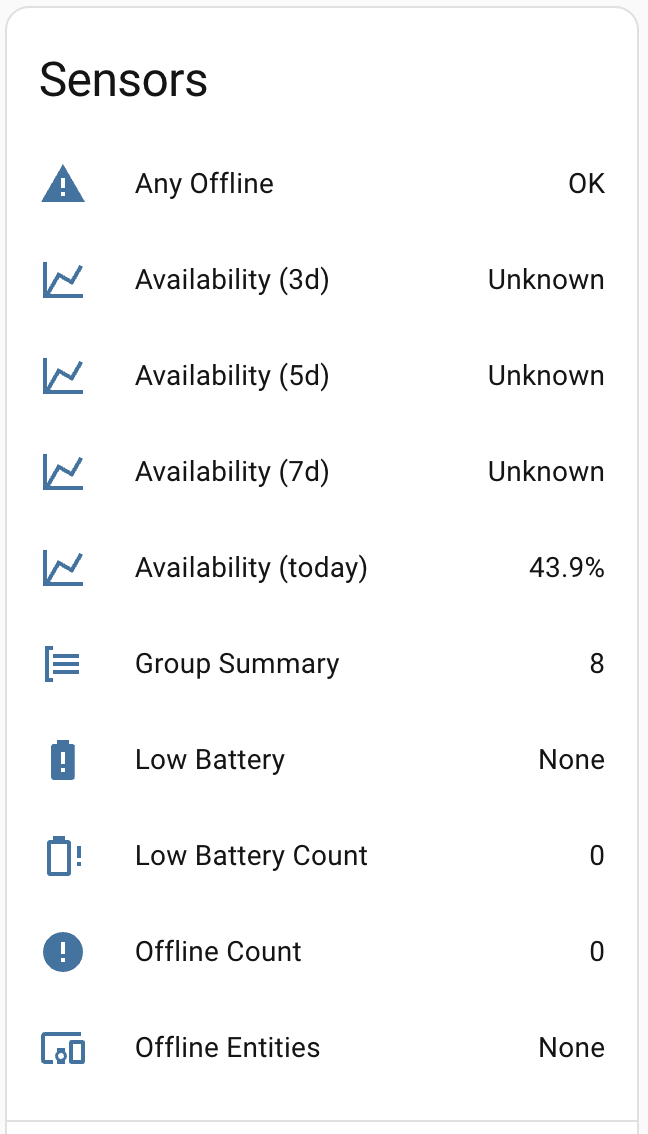
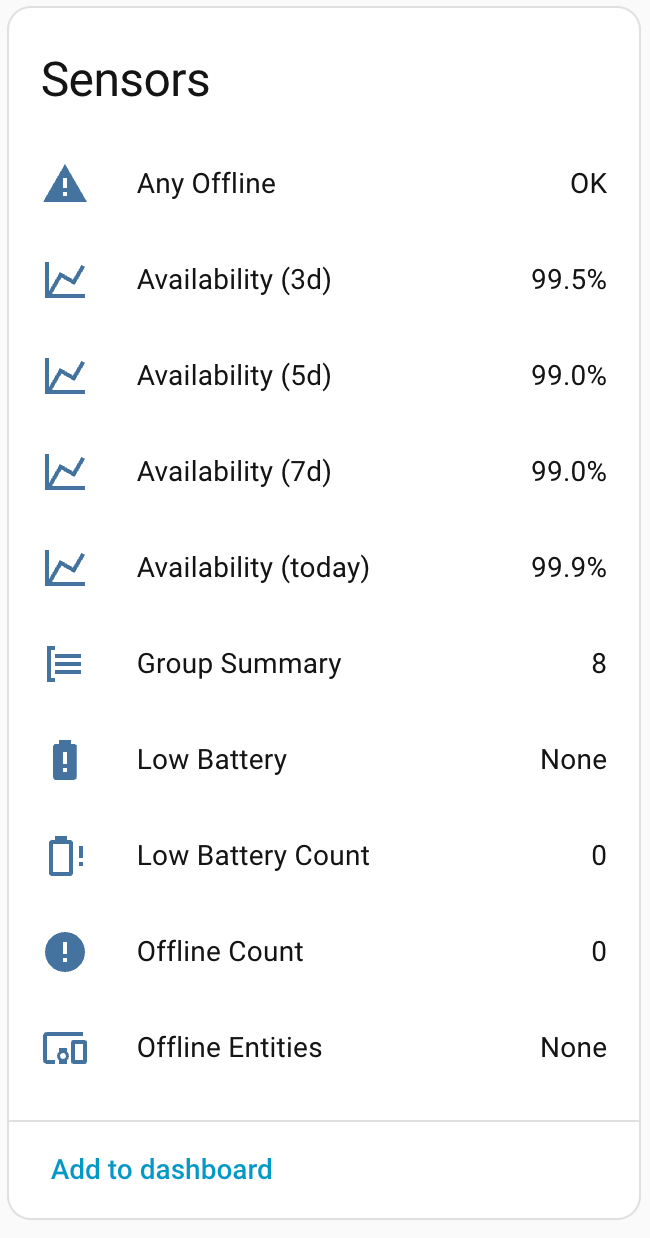
docs: update README, CHANGELOG, screenshots and card for combined groups
- README restructured: Step 1 = entry type selector, combined group setup
  path documented, screenshot placeholders added
- CHANGELOG: added card combined group support entries and service unload fix
- Screenshots: updated 03_advanced_settings, 05_sensors; added 00_create_entity
- Card JS: latest frontend build
- info.md: updated

diff --git a/custom_components/entity_availability/frontend/entity-availability-card.js b/custom_components/entity_availability/frontend/entity-availability-card.js
@@ -1280,17 +1280,18 @@ class EntityAvailabilityCardEditor extends LitElement {
             placeholder="Custom card title"
           />
         </div>
+        ${!this._isSelectedGroupCombined() ? html`
         <div class="editor-row checkbox">
           <label>
             <input
               type="checkbox"
               .checked=${this._config.show_availability !== false}
               @change=${(e) => this._updateConfig("show_availability", e.target.checked)}
-              ?disabled=${this._isSelectedGroupCombined()}
             />
-            Show Availability Bars${this._isSelectedGroupCombined() ? " (not available for combined groups)" : ""}
+            Show Availability Bars
           </label>
         </div>
+        ` : nothing}
         <div class="editor-row checkbox">
           <label>
             <input
@@ -1301,6 +1302,7 @@ class EntityAvailabilityCardEditor extends LitElement {
             Show Entity List
           </label>
         </div>
+        ${!this._isSelectedGroupCombined() ? html`
         <div class="editor-row">
           <label>Filter Entities (requires Show Entity List)</label>
           <select
@@ -1313,6 +1315,7 @@ class EntityAvailabilityCardEditor extends LitElement {
             <option value="online">Healthy only (online)</option>
           </select>
         </div>
+        ` : nothing}
         <div class="editor-row checkbox">
           <label>
             <input
@@ -1323,6 +1326,7 @@ class EntityAvailabilityCardEditor extends LitElement {
             Entity List Expanded by Default
           </label>
         </div>
+        ${!this._isSelectedGroupCombined() ? html`
         <div class="editor-row checkbox">
           <label>
             <input
@@ -1333,6 +1337,7 @@ class EntityAvailabilityCardEditor extends LitElement {
             Show Suppress/Unsuppress Buttons
           </label>
         </div>
+        ` : nothing}
         <div class="editor-row checkbox">
           <label>
             <input
@@ -1343,6 +1348,7 @@ class EntityAvailabilityCardEditor extends LitElement {
             Compact Mode
           </label>
         </div>
+        ${!this._isSelectedGroupCombined() ? html`
         <div class="editor-row">
           <label>Entity Detail</label>
           <select
@@ -1367,6 +1373,8 @@ class EntityAvailabilityCardEditor extends LitElement {
             <option value="battery_desc">Battery ↓ (strongest first)</option>
           </select>
         </div>
+        ` : nothing}
+        ${!this._isSelectedGroupCombined() ? html`
         <div class="threshold-section">
           <label>Availability Bar Colors & Thresholds</label>
           <div class="color-row">
@@ -1408,6 +1416,7 @@ class EntityAvailabilityCardEditor extends LitElement {
             />
           </div>
         </div>
+        ` : nothing}
       </div>
     `;
   }

diff --git a/README.md b/README.md
@@ -48,16 +48,27 @@ Monitor entity availability in Home Assistant. Track offline entities, availabil
 
 This integration uses a config flow accessible from **Settings > Devices & Services > Add Integration > Entity Availability**.
 
-### Step 1: Create Entity Group
+### Step 1: Choose Entry Type
+
+Choose whether to monitor a group of entities or combine existing groups.
+
+| Option | Description |
+|--------|-------------|
+| Monitor entities | Create a new group of entities to monitor |
+| Combine groups | Aggregate two or more existing groups into one (requires at least 2 groups already created) |
+
+![Step 1: Choose Entry Type](custom_components/entity_availability/docs/00_create_entity.png)
+
+### Step 2a: Create Entity Group (Monitor entities path)
 
 | Field | Description |
 |-------|-------------|
 | Group Name | A descriptive name for this group (e.g., "Security Cameras") |
 | Entities to Monitor | Select the entities you want to track |
 
-![Step 1: Create Entity Group](custom_components/entity_availability/docs/01_create_entity_group.png)
+![Step 2a: Create Entity Group](custom_components/entity_availability/docs/01_create_entity_group.png)
 
-### Step 2: Monitoring Settings
+### Step 3: Monitoring Settings
 
 | Field | Default | Description |
 |-------|---------|-------------|
@@ -65,18 +76,18 @@ This integration uses a config flow accessible from **Settings > Devices & Servi
 | Cooldown (seconds) | `60` | Time to wait before confirming an entity is offline |
 | Staleness threshold (minutes) | `0` (disabled) | Mark entity degraded if no state change in this time |
 
-![Step 2: Monitoring Settings](custom_components/entity_availability/docs/02_monitoring_settings.png)
+![Step 3: Monitoring Settings](custom_components/entity_availability/docs/02_monitoring_settings.png)
 
-### Step 3: Advanced Settings
+### Step 4: Advanced Settings
 
 | Field | Default | Description |
 |-------|---------|-------------|
 | Low battery threshold (%) | `20` | Battery level below which an entity is considered degraded (0 = disabled) |
 | Availability tracking windows | `today`, `7d` | Which time windows to create availability sensors for |
 
-![Step 3: Advanced Settings](custom_components/entity_availability/docs/03_advanced_settings.png)
+![Step 4: Advanced Settings](custom_components/entity_availability/docs/03_advanced_settings.png)
 
-### Step 4: Battery Entity Mapping (when battery threshold > 0)
+### Step 5: Battery Entity Mapping (when battery threshold > 0)
 
 If you enable battery monitoring, a confirmation step appears showing each monitored entity with its auto-detected battery sensor. You can:
 
@@ -88,7 +99,18 @@ Auto-detection checks battery sensors linked to the same device in Home Assistan
 
 Battery sensors that report `low` (text) are supported in addition to numeric percentages.
 
-![Step 4: Battery Entity Mapping](custom_components/entity_availability/docs/04_battery_entity_mapping.png)
+![Step 5: Battery Entity Mapping](custom_components/entity_availability/docs/04_battery_entity_mapping.png)
+
+### Step 2b: Create Combined Group (Combine groups path)
+
+| Field | Description |
+|-------|-------------|
+| Combined Group Name | A descriptive name (e.g., "All Devices") |
+| Groups to Include | Select two or more existing Entity Availability groups |
+
+No further steps — combined groups read live from their source groups and require no additional configuration.
+
+![Step 2b: Create Combined Group](custom_components/entity_availability/docs/01b_create_combined_group.png)
 
 ### Options Flow
 
@@ -155,20 +177,9 @@ When an entity comes back online, the `offline_count` sensor includes:
 
 ## Combined Groups
 
-A combined group aggregates two or more monitored groups into a single set of sensors. This is useful when you want cross-group automations -- for example, alerting when anything across your entire home is offline, or tracking a single "whole-home availability" figure, without duplicating entities across groups.
+A combined group aggregates two or more monitored groups into a single set of sensors. Useful for cross-group automations — alert when anything across your entire home is offline without duplicating entity logic.
 
-<!-- screenshot: config flow type selector step showing "Monitor entities" vs "Combine groups" options -->
-
-### Setting Up a Combined Group
-
-1. Go to **Settings > Devices & Services > Add Integration > Entity Availability**.
-2. On the type selector step, choose **Combine groups**.
-3. Enter a name for the combined group (e.g., "All Devices") and select two or more existing Entity Availability groups to include.
-4. Click **Submit**.
-
-<!-- screenshot: config flow combined group step showing the name field and group multi-select picker -->
-
-No additional configuration steps are required. The combined group reads live data from its source groups and updates whenever any of them change.
+See [Step 2b in the Configuration section](#step-2b-create-combined-group-combine-groups-path) for setup instructions.
 
 ### Sensors Created
 
@@ -186,7 +197,7 @@ For example, a combined group named "All Devices" produces the slug `all_devices
 
 Suppressed entities are excluded from all combined sensor states, consistent with per-group behaviour.
 
-<!-- screenshot: combined group device in HA device registry showing all sensors under one device -->
+![Combined Group Sensors](custom_components/entity_availability/docs/05b_combined_sensors.png)
 
 <!-- screenshot: combined sensors visible in Developer Tools → States -->
 
@@ -387,6 +398,8 @@ automation:
 
 The integration ships with a custom card for quick health visualization. It is automatically registered as a Lovelace resource when the integration loads.
 
+The card works with both regular groups and combined groups. It auto-detects the group type and adjusts its layout accordingly.
+
 ### Manual Installation (if auto-registration fails)
 
 1. Add the resource in **Settings > Dashboards > Resources**:
@@ -417,28 +430,39 @@ availability_colors:
 
 | Option | Default | Description |
 |--------|---------|-------------|
-| `group` | (required) | Group slug (e.g., `security_devices`) |
+| `group` | (required) | Group slug (e.g., `security_devices`) — works for both regular and combined groups |
 | `title` | (auto from group) | Custom card title |
-| `show_availability` | `true` | Show availability progress bars |
-| `show_entities` | `true` | Show expandable entity list |
-| `entities_expanded` | `false` | Start entity list expanded |
-| `show_actions` | `false` | Show Suppress/Unsuppress buttons |
-| `entity_detail` | `"off"` | `"off"` / `"tooltip"` (hover to see details) / `"inline"` (always show details). In compact mode with inline, shows state + last-changed time. Timestamp states are formatted as readable dates. |
-| `entity_filter` | `"all"` | Filter entity list: `"all"`, `"offline"` (problems only: offline/stale/low battery), `"online"` (healthy only). Section title and count update to reflect filter (e.g., "Offline Entities (2/6)") |
+| `show_availability` | `true` | Show availability progress bars (regular groups only) |
+| `show_entities` | `true` | Show expandable entity list (regular) or group breakdown table (combined) |
+| `entities_expanded` | `false` | Start entity list / group breakdown expanded |
+| `show_actions` | `false` | Show Suppress/Unsuppress buttons (regular groups only) |
+| `entity_detail` | `"off"` | `"off"` / `"tooltip"` (hover to see details) / `"inline"` (always show details). In compact mode with inline, shows state + last-changed time. Timestamp states are formatted as readable dates. (regular groups only) |
+| `entity_filter` | `"all"` | Filter entity list: `"all"`, `"offline"` (problems only: offline/stale/low battery), `"online"` (healthy only). Section title and count update to reflect filter (e.g., "Offline Entities (2/6)"). (regular groups only) |
 | `compact` | `false` | Reduced padding mode |
-| `sort_by` | `status` | Entity list sort order: `status`, `name_asc`, `name_desc`, `battery_asc`, `battery_desc` |
-| `availability_thresholds` | `{high: 99, mid: 95}` | % thresholds for bar colors |
-| `availability_colors` | `{high, mid, low}` | Custom hex colors for bars |
+| `sort_by` | `status` | Entity list sort order: `status`, `name_asc`, `name_desc`, `battery_asc`, `battery_desc` (regular groups only) |
+| `availability_thresholds` | `{high: 99, mid: 95}` | % thresholds for bar colors (regular groups only) |
+| `availability_colors` | `{high, mid, low}` | Custom hex colors for bars (regular groups only) |
 
 > **Migration:** `show_entity_tooltips: true` from previous versions is automatically treated as `entity_detail: "tooltip"` — no manual update needed.
 
-The `group` field should be the group slug (e.g., `security_devices`). The card uses the prefix `entity_availability_` + group slug to locate all related entities automatically.
+The `group` field accepts any group slug. The card uses the prefix `entity_availability_` + group slug to locate all related entities and detect the group type automatically.
 
-All options are configurable via the visual card editor UI.
+All options are configurable via the visual card editor UI. Options that do not apply to the selected group type are hidden automatically in the editor.
 
-![Card Configuration](custom_components/entity_availability/docs/07_ui_card_configuration_screen.png)
+![Card Configuration — Regular Group](custom_components/entity_availability/docs/07_ui_card_configuration_screen.png)
 
-### Card Preview
+![Card Configuration — Combined Group](custom_components/entity_availability/docs/07b_ui_card_configuration_combined.png)
+
+### Visual Editor
+
+The card editor includes a **Group Slug** dropdown populated from all discovered groups, split into two sections:
+
+- **Groups** — regular monitored groups
+- **Combined Groups** — aggregated combined groups
+
+Selecting a combined group hides editor controls that don't apply (availability bars, entity filter, entity detail, sort order, suppress buttons, color thresholds), leaving only the options relevant to combined group display.
+
+### Card Preview — Regular Group
 
 ```
 ┌───────────────────────────────────────────────┐
@@ -462,6 +486,25 @@ All options are configurable via the visual card editor UI.
 │       [Suppress All]   [Unsuppress All]       │
 └───────────────────────────────────────────────┘
 ```
+
+### Card Preview — Combined Group
+
+```
+┌───────────────────────────────────────────────┐
+│ ✖ All Devices                      2 Offline  │
+├───────────────────────────────────────────────┤
+│   Online: 11  Offline: 2   Low Battery: 1     │
+├───────────────────────────────────────────────┤
+│  ▾ Groups (3)                                 │
+│    Group              Online  Offline  Bat.   │
+│    ─────────────────────────────────────────  │
+│    Security Devices       4        1     1    │
+│    Climate Devices        5        1     0    │
+│    Media Devices          2        0     0    │
+└───────────────────────────────────────────────┘
+```
+
+![Card — Combined Group](custom_components/entity_availability/docs/11_card_combined_group.png)
 
 ---
 

diff --git a/info.md b/info.md
@@ -5,6 +5,7 @@ Monitor entity availability across your Home Assistant setup. Track offline enti
 ## Features
 
 - Multi-group support — organize entities by function (Security, Climate, Media, etc.)
+- Combined groups — merge multiple groups into a single aggregate sensor set for cross-group automations
 - Configurable bad states — define which states count as offline (`unavailable`, `unknown`, or custom)
 - Cooldown timer — ignore brief blips before marking an entity offline
 - Availability % sensors — track uptime over today, 3-day, 5-day, and 7-day windows (5-minute buckets)
@@ -15,7 +16,9 @@ Monitor entity availability across your Home Assistant setup. Track offline enti
 - Group Summary sensor — total, online, offline, suppressed, battery_powered, low_battery counts + full entity list
 - Maintenance/suppression mode — suppress individual entities or entire groups
 - Any Offline binary sensor (Problem class) — triggers automations when entities go offline
-- Custom Lovelace card — dashboard-style display with status icon, stats, availability bars, entity list, and visual editor
+- Custom Lovelace card — dashboard-style display with status icon, stats, availability bars, entity list, and visual editor; supports both regular and combined groups
+- Card editor auto-detects group type and hides options that don't apply to combined groups
+- Group Slug picker — dropdown populated from discovered groups, split into regular and combined optgroups
 - Configurable entity sort order in card — by status, name, or battery level (ascending/descending)
 - Customizable availability bar colors and thresholds
 - Optional suppress/unsuppress action buttons in card

diff --git a/CHANGELOG.md b/CHANGELOG.md
@@ -8,6 +8,10 @@ All notable changes to this project will be documented in this file.
 - Combined groups — select two or more existing groups and get a unified set of sensors that aggregate data across all of them
 - Combined group sensors: offline count, offline entities list, low battery list, low battery count
 - Binary sensor `any_offline` — turns ON when any entity in any included group is offline
+- Card: combined groups now supported — card auto-detects group type and adapts its layout
+- Card: combined group view shows per-group breakdown table (online / offline / low battery per group)
+- Card editor: Group Slug field replaced with a dropdown populated from discovered groups; regular and combined groups shown in separate optgroups
+- Card editor: controls that don't apply to combined groups (availability bars, filters, sort, entity detail, suppress buttons, color thresholds) are hidden automatically when a combined group is selected
 
 ### Fixed
 - Automations no longer fire on HA restart for devices that were already offline before the restart